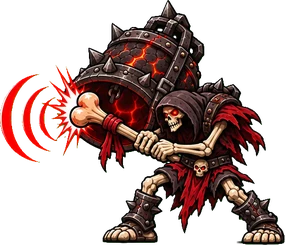
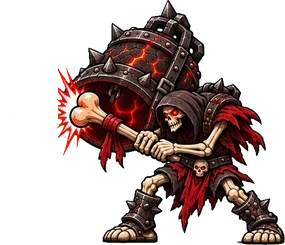
feat(siege): make the three newest foes rare champions with moving waves and grounded falls
Claude-Session: https://claude.ai/code/session_01D7UBrhj4BdB81o1BiFmQxC

diff --git a/bug-hunter/src/siege/cartoon/model.ts b/bug-hunter/src/siege/cartoon/model.ts
@@ -82,7 +82,12 @@ export interface Spec { id: number; cost: number; hp: number; damage: number; sp
   moves?: { ready: number; strike: number; kind: 'orb' | 'ray' | 'skulls' | 'summon' | 'slam' | 'spikes' | 'pulse' | 'slash' }[];
   /** A sound that strikes everything in front of it out to `reach`: the bell ringer's toll (walkers only, stunned for
       `stun` seconds), the crowned wraith's scream (walkers and flyers, slowed for `slow` seconds). */
-  wave?: { reach: number; stun?: number; slow?: number };
+  /** A toll or a scream (`art`, `siege/fx/<art>`), sent from its mouth (`mouth`: forward and up, in shares of its
+      size) out to `reach`: what it meets is struck, stunned or slowed. */
+  wave?: { reach: number; stun?: number; slow?: number; art: string; mouth: [number, number] };
+  /** One of the enemy's rare champions: big, tough and strong, never in the waves' rotation; one comes now and then
+      (`RARE`), with a roar, and only one at a time. */
+  rare?: boolean;
   /** The unit it becomes at half its life (the King of Darkness loses his wings and fights on foot), and how many poses
       its sheet has (more than six with `moves`). */
   phase2?: number; frames?: number;
@@ -292,13 +297,13 @@ export const UNITS: readonly Spec[] = [
     ...foe('boss-dark-king-ground', 250, 1) },
   // The King's Jailer (world 6): a hunched giant with no mouth and a cage of ribs on its back full of red souls. It throws
   // its chain from afar, hooks one of ours and drags it to its feet.
-  { id: 61, cost: 140, hp: 1100, damage: 45, speed: 22, range: 170, rate: 2.2, cooldown: 0, unlock: 1, foe: true, hook: 150, ...six('foe-jailer-1', 231, 1.4) },
+  { id: 61, cost: 230, hp: 2800, damage: 75, speed: 20, range: 190, rate: 2.2, cooldown: 0, unlock: 1, foe: true, rare: true, steady: true, hook: 170, ...six('foe-jailer-1', 231, 1.8) },
   // The Bell Ringer (world 4): a hunched skeleton with a huge black bell on its back; it strikes the bell with a bone and
   // the toll stuns our walkers in front of it.
-  { id: 62, cost: 90, hp: 900, damage: 18, speed: 22, range: 120, rate: 2.0, cooldown: 0, unlock: 1, foe: true, steady: true, wave: { reach: 130, stun: 0.8 }, ...foe('foe-bellringer-1', 258, 0.87) },
+  { id: 62, cost: 190, hp: 2300, damage: 40, speed: 20, range: 160, rate: 2.0, cooldown: 0, unlock: 1, foe: true, rare: true, steady: true, wave: { reach: 180, stun: 1.3, art: 'wave-toll', mouth: [0.515, 0.508] }, ...foe('foe-bellringer-1', 258, 1.25) },
   // The Crowned Wraith (world 5, air): a floating cloak with a crown and bone claws; its scream runs through everything
   // in front of it, walkers and flyers, and slows them.
-  { id: 63, flyAt: 62, cost: 80, hp: 260, damage: 22, speed: 40, range: 200, rate: 2.2, cooldown: 0, unlock: 1, foe: true, air: true, hitsAir: true, wave: { reach: 220, slow: 2.5 }, ...foe('foe-wraith-1', 261, 0.82) },
+  { id: 63, flyAt: 72, cost: 170, hp: 950, damage: 45, speed: 36, range: 230, rate: 2.2, cooldown: 0, unlock: 1, foe: true, rare: true, air: true, hitsAir: true, wave: { reach: 260, slow: 3.5, art: 'wave-scream', mouth: [0.205, 0.653] }, ...foe('foe-wraith-1', 261, 1.2) },
 ];
 /** The enemy's land and air troops by act, each act adding to the last (docs/siege-roster.md): early waves draw
     from the first two of the land list. No flyers in the first world: they come from the second. */
@@ -348,7 +353,8 @@ export const foePower = (id: number) => { const u = UNITS[id]; return u.hp * u.d
 /** The troops a stage's threat sends: from every act so far (the whole of this one, so a threat can show what is to come). */
 export function threatPool(stage: number): number[] {
   const t = threatOf(stage), act = actOf(stage);
-  const land = FOE_LAND.slice(0, act).flat(), air = FOE_AIR.slice(0, act).flat(), mine = FOE_LAND[act - 1];
+  const plain = (ids: number[]) => ids.filter(id => !UNITS[id].rare);
+  const land = plain(FOE_LAND.slice(0, act).flat()), air = plain(FOE_AIR.slice(0, act).flat()), mine = plain(FOE_LAND[act - 1]);
   const byHp = (ids: number[]) => [...new Set(ids)].sort((a, b) => UNITS[b].hp - UNITS[a].hp);
   // The swarm: the fastest close fighters, this act's first.
   if (t === 'swarm') { const fast = (ids: number[]) => ids.filter(id => UNITS[id].range <= 60 && UNITS[id].speed >= 40).sort((a, b) => UNITS[b].speed - UNITS[a].speed); return [...new Set([...fast(mine), ...fast(land)])].slice(0, 2); }
@@ -362,6 +368,10 @@ export function threatPool(stage: number): number[] {
 }
 /** The enemy's troops in a battle: every earlier act's, and its own act's coming in one more each stage. */
 export const foesAt = (lists: number[][], stage: number) => [...lists.slice(0, actOf(stage) - 1).flat(), ...(lists[actOf(stage) - 1] ?? []).slice(0, stageIn(stage))];
+/** The troops of a battle's usual waves (not the rare champions, which come on their own: `RARE`). */
+export const plainFoesAt = (lists: number[][], stage: number) => foesAt(lists, stage).filter(id => !UNITS[id].rare);
+/** The rare champions (`Spec.rare`): from this far into a battle, one every `every` waves, never two at once. */
+export const RARE = { from: 40, every: 5 };
 /** What recruiting each of our troops costs in gold (the swordsman is everyone's first). Bought once, kept. */
 export const RECRUIT: Record<number, number> = { 0: 0, 1: 100, 2: 120, 3: 350, 4: 300, 5: 600, 6: 900, 7: 700, 8: 900, 9: 1600, 10: 250, 11: 500, 12: 900, 13: 700, 14: 2000, 33: 1200, 51: 900, 52: 800, 53: 400, 54: 500, 55: 1100, 56: 3000, 57: 4000, 58: 4500, 59: 3500 };
 /** The guardian of each act, drawn bigger: Large Slinger, Large Gatling Robot, Large Red Dragon Rider, Giant Brute
@@ -582,7 +592,7 @@ function wince(u: Fighter, damage: number) {
   if (damage >= u.maxHp * WINCE.share && !u.winceCd) { u.wince = WINCE.time; u.winceCd = WINCE.every; }
 }
 export const CHARGE = { reach: 170, pace: 4, back: 130, daze: 0.9 };
-export interface Effect { x: number; from: number; lane: number; life: number; max: number; kind: 'shot' | 'anim' | 'piece' | 'burst' | 'arrow' | 'rocket' | 'bolt' | 'gust' | 'loot' | 'boom' | 'fire' | 'stuck' | 'fall' | 'ground' | 'zap' | 'wave' | 'sweep' | 'breath' | 'heal' | 'beam'; side: 0 | 1;
+export interface Effect { x: number; from: number; lane: number; life: number; max: number; kind: 'shot' | 'anim' | 'piece' | 'burst' | 'arrow' | 'rocket' | 'bolt' | 'gust' | 'loot' | 'boom' | 'fire' | 'stuck' | 'fall' | 'ground' | 'zap' | 'wave' | 'sweep' | 'breath' | 'heal' | 'beam' | 'ripple'; side: 0 | 1;
   /** A `breath`'s fire: core and edge colours. */
   colors?: [string, string];
   /** A lobbed shot's height at the top of its arc (field units), drawn falling under gravity. */
@@ -619,6 +629,8 @@ export interface Siege {
   kit: { id: number; level: number; card: number }[]; kitCd: Record<number, number>; hitq: Hit[];
   /** Powers that act for a while where they were cast: a black hole pulling the enemy in, a sanctuary healing ours. */
   zones?: { kind: 'pull' | 'heal' | 'wall' | 'slow' | 'drag'; x: number; r: number; until: number; heal?: number; next?: number; from?: number; speed?: number }[]; view: { x: number; width: number }; casts: number;
+  /** How many rare champions have come this battle, so they take turns (`RARE`). */
+  rares?: number;
   /** The troops' sounds since the view last took them (attacks and deaths, where they happened); kept short. */
   sounds?: { k: string; x: number }[];
   /** How many times the bow has shot this battle (the view plays a sound for each new one). */
@@ -749,7 +761,9 @@ function spawn(s: Siege, id: number, side: 0 | 1, boss = false, level?: number) 
   if (spec.stealth) nu.hidden = spec.stealth;
   // It arrives with a flourish of its kind: a summoning circle, a whirl of wind for flyers, a thump for the heavy, a
   // red portal for the enemy (the ninja slips in unseen).
-  else fx(s, spec.foe ? 'arrive-foe' : spec.air ? 'arrive-air' : spec.steady || spec.size > 100 ? 'arrive-heavy' : 'arrive-land', nu.x, 0.55, { size: Math.min(150, Math.max(70, spec.size * (boss ? 1.6 : 1) * 0.9)), up: spec.air ? highOf(nu) - 20 : 0 });
+  else fx(s, spec.foe ? 'arrive-foe' : spec.air ? 'arrive-air' : spec.steady || spec.size > 100 ? 'arrive-heavy' : 'arrive-land', nu.x, spec.rare ? 0.9 : 0.55, { size: spec.rare ? spec.size * 1.5 : Math.min(150, Math.max(70, spec.size * (boss ? 1.6 : 1) * 0.9)), up: spec.air ? highOf(nu) - 20 : 0 });
+  // A rare champion is heard coming.
+  if (spec.rare && side && !s.villain) hear(s, 'roar', nu.x);
 }
 /** What a troop's attack sounds like (its weapon) and its death (its body), by id; an array is per level. Projectile
     troops sound like what they fire (`SHOT_SOUND`). Names are the audio engine's `SiegeSound`s. */
@@ -976,7 +990,7 @@ function kingMove(s: Siege, u: Fighter, a: Spec, enemy: Fighter, alive: Fighter[
     hear(s, 'throw', u.x);
   } else if (mv.kind === 'summon') {
     // A portal opens on the ground before him and two of his troops climb out of it.
-    const x = Math.max(160, u.x + dir * 70), land = foesAt(FOE_LAND, s.world);
+    const x = Math.max(160, u.x + dir * 70), land = plainFoesAt(FOE_LAND, s.world);
     fx(s, 'king-portal', x, 1.2, { size: 120 });
     for (let i = 0; i < 2; i++) { const before = s.units.length; spawn(s, land[(s.nextId + i * 3) % land.length], u.side); const n = s.units[s.units.length - 1]; if (s.units.length > before && n) { n.x = x + i * 18; n.stun = 0.6; } }
     hear(s, 'roar', x);
@@ -1287,7 +1301,10 @@ export function tick(s: Siege, dt: number) {
     s.waves++;
     s.nextWave = Math.max(FOE_PACE.gap, 9 - hard(s.world) * FOE_PACE.slope - s.time / 90);
     const count = Math.min(3, 1 + Math.floor(s.time / 70));
-    const land = foesAt(s.villain ? HERO_LAND : FOE_LAND, s.world), flyers = foesAt(s.villain ? HERO_AIR : FOE_AIR, s.world);
+    const land = plainFoesAt(s.villain ? HERO_LAND : FOE_LAND, s.world), flyers = plainFoesAt(s.villain ? HERO_AIR : FOE_AIR, s.world);
+    // A rare champion now and then, alone (`RARE`): never in the villain's battles, where the heroes come.
+    const rares = s.villain ? [] : [...foesAt(FOE_LAND, s.world), ...foesAt(FOE_AIR, s.world)].filter(id => UNITS[id].rare);
+    if (rares.length && s.time >= RARE.from && s.waves % RARE.every === 0 && !s.units.some(u => u.side && u.hp > 0 && UNITS[u.id].rare)) { foeOut(s, rares[(s.rares ?? 0) % rares.length]); s.rares = (s.rares ?? 0) + 1; }
     // Early waves only the first two land troops; later the whole list, the newest (toughest) more often.
     const pick = s.time < 25 ? land.slice(0, 2) : [...land, ...land.slice(-2)];
     const plain = (i: number) => { const flyer = flyers.length > 0 && s.time >= airFrom(s.world) && (s.waves + i) % 3 === 2; return flyer ? flyers[(s.waves + i) % flyers.length] : pick[(s.waves * 3 + i) % pick.length]; };
@@ -1312,7 +1329,7 @@ export function tick(s: Siege, dt: number) {
     for (const u of s.units) if (!u.side) { u.blown = GUST.time; u.knock = 0; u.stun = 0; }
     s.effects.push({ x: FIELD - 120, from: FIELD - 120, lane: 1, life: 1.2, max: 1.2, kind: 'gust', side: 1 });
     hear(s, 'corrupt-wind', FIELD - 300);
-    const land = foesAt(s.villain ? HERO_LAND : FOE_LAND, s.world), tough = [...land].sort((a, b) => specAt(b, heroLevel(b, s.world)).hp - specAt(a, heroLevel(a, s.world)).hp);
+    const land = plainFoesAt(s.villain ? HERO_LAND : FOE_LAND, s.world), tough = [...land].sort((a, b) => specAt(b, heroLevel(b, s.world)).hp - specAt(a, heroLevel(a, s.world)).hp);
     const horde = hordeOf(s.world);
     for (let i = 0; i < horde.weak; i++) { foeOut(s, land[i % Math.min(2, land.length)]); const u = s.units[s.units.length - 1]; if (u?.side) u.x -= i * 18; }
     for (let i = 0; i < horde.strong; i++) foeOut(s, tough[i % tough.length]);
@@ -1426,7 +1443,9 @@ export function tick(s: Siege, dt: number) {
             if (!v.boss && !UNITS[v.id].steady && w.stun) v.stun = Math.max(v.stun ?? 0, w.stun);
             if (w.slow) v.slowed = Math.max(v.slowed ?? 0, s.time + w.slow);
           }
-          fx(s, 'hit-energy', u.x + dir * w.reach * 0.6, 0.35, { up: (a.air ? u.alt ?? highOf(u) : 0) + 30, centre: true, size: 70, flip: !!u.side });
+          // The rings leave its mouth and run out over its reach, growing and fading (`ripple` in the view).
+          const from = u.x + dir * w.mouth[0] * a.size;
+          s.effects.push({ x: u.x + dir * w.reach, from, lane: u.lane, life: 0.55, max: 0.55, kind: 'ripple', side: u.side, art: w.art, fromUp: (a.air ? u.alt ?? highOf(u) : 0) + w.mouth[1] * a.size, size: a.size });
           hear(s, w.stun ? 'blunt' : 'magic', u.x);
         }
         else if (a.sweep) {
@@ -1509,7 +1528,8 @@ export function tick(s: Siege, dt: number) {
         fx(s, 'wreck', u.x, 0.7, { size: size * 1.1, up });
         ['piece-gear', 'piece-bolt', 'piece-plate'].forEach((art, k) => s.effects.push({ x: u.x + (k - 1) * 34 + back * 0.4, from: u.x, lane: u.lane, life: 0.75, max: 0.75, kind: 'piece', side: 0, art, size: 12 + k * 2, arc: 50 + k * 14, spin: true, up: up + 30 }));
       } else if (sp.foe) fx(s, 'soul', u.x + back * 0.5, 0.9, { size: Math.min(70, size * 0.55), up: up + 10 });
-      if (sp.air) fx(s, 'crash', u.x + back, 0.6, { size: Math.min(150, size * 1.1) }, 0.28);
+      // The dust when it hits the ground, as it lands (the view lets it fall from where it flew over about 0.6 s).
+      if (sp.air) fx(s, 'crash', u.x + back, 0.6, { size: Math.min(150, size * 1.1) }, 0.5);
     }
     hear(s, soundsOf(u)[1], u.x);
     // A fallen enemy's bounty: gold (kept win or lose) and energy, shown rising where it fell.

diff --git a/bug-hunter/src/siege/cartoon/view.ts b/bug-hunter/src/siege/cartoon/view.ts
@@ -34,7 +34,7 @@ function picture(path: string) {
 }
 /** Pictures redrawn under the same file names: a browser keeps the old copy for days (`/images/` may be served stale
     while it revalidates), so their address carries a revision, raised each time one is drawn again. */
-const ART_REV: [string, number][] = [['siege/units/boss-dark-king-', 2]];
+const ART_REV: [string, number][] = [['siege/units/boss-dark-king-', 2], ['siege/units/foe-bellringer-1-3', 2], ['siege/units/foe-wraith-1-3', 2]];
 const art = (file: string) => { const r = ART_REV.find(([k]) => file.startsWith(k)); return `/images/game/${file}${r ? `?r=${r[1]}` : ''}`; };
 /** Every troop's sheet (`siege/units/...`): 0 standing, 1 attacking, 2 hurt. Walking, breathing, lunges and falls
     are animated here. */
@@ -172,7 +172,7 @@ const AMBIENT: Record<number, { kind: string; n: number; fall: number; drift: nu
 const FX_STILLS = [...[1, 2, 3, 4].flatMap(n => [`eye-${n}`, `eye-fire-${n}`]), 'ice-block', 'piece-gear', 'piece-bolt', 'piece-plate', 'casing', 'streak', 'storm-sky', 'rubble', 'piece-stone', 'piece-beam', 'piece-flag',
   ...[0, 1, 2].flatMap(n => [`scorch-${n}`, `crack-${n}`]), ...Object.values(AMBIENT).flatMap(a => Array.from({ length: a.n }, (_, k) => `amb-${a.kind}-${k}`))];
 const fxFrame = (name: string, p: number) => still(`siege/fx/${name}-${Math.max(0, Math.min(FX_FRAMES[name] - 1, Math.floor(p * FX_FRAMES[name])))}`);
-const FX = [...Array.from({ length: 8 }, (_, f) => `siege/fx/dragonpass-${f}`), ...Array.from({ length: 12 }, (_, f) => `siege/fx/anchor-${f}`), ...Object.keys(PHASED).flatMap(n => Array.from({ length: 12 }, (_, f) => `siege/fx/${n}-${f}`)), ...Object.entries(FX_FRAMES).flatMap(([n, k]) => Array.from({ length: k }, (_, f) => `siege/fx/${n}-${f}`)), ...FX_STILLS.map(n => `siege/fx/${n}`), 'siege/mana', 'siege/mana-dark', ...[0, 1, 2, 3, 4, 5, 6, 7].flatMap(n => [`siege/fx-boom-${n}`, `siege/fx-boom-dark-${n}`, `siege/fx-boom-cyan-${n}`]), 'siege/units/shot-crescent-gold', 'fx/fire-pool.webp', 'fx/fireball.webp', 'fx/rocket.webp', 'fx/volt-burst.webp', 'fx/impact.webp', 'fx/ice-block.webp', 'siege/units/shot-arrow', 'siege/units/shot-ice', 'siege/units/shot-lightning', ...[0, 1, 2].map(n => `fx/wave-strip-${n}.webp`), ...[0, 1, 2, 3, 4, 5, 6].map(n => `fx/icicle-0-${n}.webp`), 'arrows/water.webp', 'arrows/leaf.webp', 'fx/boom-big.webp', 'fx/impact.webp', ...[1, 2, 3, 4, 5, 6].map(n => `fx/bolt-y-${n}.webp`)];
+const FX = [...Array.from({ length: 8 }, (_, f) => `siege/fx/dragonpass-${f}`), ...Array.from({ length: 12 }, (_, f) => `siege/fx/anchor-${f}`), ...Object.keys(PHASED).flatMap(n => Array.from({ length: 12 }, (_, f) => `siege/fx/${n}-${f}`)), ...Object.entries(FX_FRAMES).flatMap(([n, k]) => Array.from({ length: k }, (_, f) => `siege/fx/${n}-${f}`)), ...FX_STILLS.map(n => `siege/fx/${n}`), 'siege/mana', 'siege/mana-dark', ...[0, 1, 2, 3, 4, 5, 6, 7].flatMap(n => [`siege/fx-boom-${n}`, `siege/fx-boom-dark-${n}`, `siege/fx-boom-cyan-${n}`]), 'siege/units/shot-crescent-gold', 'fx/fire-pool.webp', 'fx/fireball.webp', 'fx/rocket.webp', 'fx/volt-burst.webp', 'fx/impact.webp', 'fx/ice-block.webp', 'siege/units/shot-arrow', 'siege/units/shot-ice', 'siege/units/shot-lightning', ...[0, 1, 2].map(n => `fx/wave-strip-${n}.webp`), ...[0, 1, 2, 3, 4, 5, 6].map(n => `fx/icicle-0-${n}.webp`), 'arrows/water.webp', 'arrows/leaf.webp', 'fx/boom-big.webp', 'fx/impact.webp', ...[1, 2, 3, 4, 5, 6].map(n => `fx/bolt-y-${n}.webp`), 'siege/fx/wave-toll', 'siege/fx/wave-scream'];
 /** Pictures drawn whole (backdrop, floor, effects): no alpha crop needed. */
 const stills = new Map<string, HTMLImageElement>();
 function still(path: string) {
@@ -727,6 +727,20 @@ function effect(ctx: CanvasRenderingContext2D, e: Effect, p: number, y: number, 
     const art = fxFrame('heal', p); if (ok(art)) { const w = 46, h = w * art.naturalHeight / art.naturalWidth; ctx.drawImage(art, e.x - w / 2, ground - (e.up ?? 0) - h, w, h); }
     ctx.restore(); return true;
   }
+  if (e.kind === 'ripple') {
+    // The Bell Ringer's toll and the Crowned Wraith's scream: their rings (cut from the attack pose) leave the mouth
+    // and run out over the reach, growing and fading, a second pass adding light.
+    if (p < 0) return true;
+    const art = still(`siege/fx/${e.art}`); if (!ok(art)) return false;
+    const dir = e.x >= e.from ? 1 : -1, ease = 1 - (1 - p) * (1 - p), reach = Math.abs(e.x - e.from);
+    const h = (e.size ?? 100) * 0.42 * (1 + ease * 0.7), w = h * art.naturalWidth / art.naturalHeight;
+    // The rings' inner side starts at the mouth.
+    const cx = e.from + dir * (reach * ease + w / 2), cy = ground - (e.fromUp ?? 0);
+    ctx.save(); ctx.globalAlpha = Math.min(1, p / 0.12) * (p < 0.55 ? 1 : (1 - p) / 0.45); ctx.translate(cx, cy); ctx.scale(-dir, 1);
+    ctx.drawImage(art, -w / 2, -h / 2, w, h);
+    ctx.globalCompositeOperation = 'lighter'; ctx.globalAlpha *= 0.35; ctx.drawImage(art, -w / 2, -h / 2, w, h);
+    ctx.restore(); return true;
+  }
   if (e.kind === 'sweep') {
     // The archangel's golden crescent: a wide arc sweeping out from the angel over the ground ahead of it, growing, a
     // white-hot core and gold streaks behind, fading; it is drawn twice, the second time adding light.
@@ -983,12 +997,17 @@ function fallen(s: Siege) {
     eater's beam poses, whose beam reaches far ahead of and below it). */
 /** The King of Darkness's poses are anchored on his throne (in the air) or between his feet (on foot), measured on each. */
 const KING_ANCHOR: Record<string, [number, number]> = { 'siege/units/boss-dark-king-air-0': [0.407, 0.998], 'siege/units/boss-dark-king-air-1': [0.473, 0.998], 'siege/units/boss-dark-king-air-2': [0.443, 0.998], 'siege/units/boss-dark-king-air-3': [0.454, 0.998], 'siege/units/boss-dark-king-air-4': [0.392, 0.998], 'siege/units/boss-dark-king-air-5': [0.425, 0.875], 'siege/units/boss-dark-king-air-6': [0.421, 0.998], 'siege/units/boss-dark-king-air-7': [0.449, 0.998], 'siege/units/boss-dark-king-air-8': [0.42, 0.998], 'siege/units/boss-dark-king-air-9': [0.494, 0.998], 'siege/units/boss-dark-king-air-10': [0.457, 0.998], 'siege/units/boss-dark-king-air-11': [0.461, 0.998], 'siege/units/boss-dark-king-ground-0': [0.594, 0.998], 'siege/units/boss-dark-king-ground-1': [0.595, 0.998], 'siege/units/boss-dark-king-ground-2': [0.543, 0.998], 'siege/units/boss-dark-king-ground-3': [0.533, 0.998], 'siege/units/boss-dark-king-ground-4': [0.505, 0.998], 'siege/units/boss-dark-king-ground-5': [0.49, 0.995], 'siege/units/boss-dark-king-ground-6': [0.51, 0.997], 'siege/units/boss-dark-king-ground-7': [0.557, 0.995], 'siege/units/boss-dark-king-ground-8': [0.511, 0.998], 'siege/units/boss-dark-king-ground-9': [0.507, 0.998], 'siege/units/boss-dark-king-ground-10': [0.517, 0.998], 'siege/units/boss-dark-king-ground-11': [0.486, 0.998] };
-const POSE_ANCHOR: Record<string, [number, number]> = { ...KING_ANCHOR, 'siege/units/ally-star-eater-1-6': [0.183, 0.585], 'siege/units/ally-star-eater-1-7': [0.171, 0.796], 'siege/units/ally-dragon-1-6': [0.313, 0.712], 'siege/units/ally-dragon-1-7': [0.254, 0.848], 'siege/units/ally-reaper-1-3': [0.297, 1] };
+const POSE_ANCHOR: Record<string, [number, number]> = { ...KING_ANCHOR, 'siege/units/ally-star-eater-1-6': [0.183, 0.585], 'siege/units/ally-star-eater-1-7': [0.171, 0.796], 'siege/units/ally-dragon-1-6': [0.313, 0.712], 'siege/units/ally-dragon-1-7': [0.254, 0.848], 'siege/units/ally-reaper-1-3': [0.297, 1],
+  // The Bell Ringer lying dead: the bone thrown in front of it reaches lowest; it lies on its body, the bone a little in front.
+  'siege/units/foe-bellringer-1-5': [0.385, 0.92] };
 function fighter(ctx: CanvasRenderingContext2D, s: Siege, u: Fighter, ground: number, reduced: boolean, color: string, gone?: number) {
   // Air troops fly above their lane, their shadow on the ground under them; the fallen lie on the ground.
   // Every troop on one line (the lanes only order who is drawn in front), so the card bar never hides one.
   const spec = specOf(u), floor = ground;
-  const y = gone !== undefined ? floor : spec.air ? floor - (u.alt ?? highOf(u)) - u.lane * 8 + (reduced ? 0 : spec.raid ? Math.sin(s.time * 0.9 + u.uid) * 2 : Math.sin(s.time * 4 + u.uid) * 5) : floor;
+  // A flyer killed in the air falls from where it was to the ground over the first part of its fall (it no longer
+  // drops there at once).
+  const fell = gone !== undefined && spec.air ? Math.min(1, gone / DEATH.fly) : 1;
+  const y = gone !== undefined ? floor - (u.alt ?? highOf(u)) * (1 - fell * fell) : spec.air ? floor - (u.alt ?? highOf(u)) - u.lane * 8 + (reduced ? 0 : spec.raid ? Math.sin(s.time * 0.9 + u.uid) * 2 : Math.sin(s.time * 4 + u.uid) * 5) : floor;
   const path = spec.sprite, t = s.time + u.uid * 0.37;
   // The pose. Six-pose sheets: walk A/B in turn while walking, the wind-up just before a blow, the blow, hurt, dead.
   // Three-pose sheets: stand (walking in code), attack, hurt.

diff --git a/bug-hunter/src/version.ts b/bug-hunter/src/version.ts
@@ -4,7 +4,7 @@
  * This folder migration preserves the public game URL, saves and gameplay.
  * The build stamp changes automatically on each deployment.
  */
-export const GAME_VERSION = '1.16.10';
+export const GAME_VERSION = '1.16.11';
 
 declare const __GAME_BUILD__: { commit: string; built: string };
 /** Build stamp from the shared Vite configuration; safe outside Vite too. */

diff --git a/bug-hunter/docs/siege-roster.md b/bug-hunter/docs/siege-roster.md
@@ -50,6 +50,8 @@ Each enemy is "equivalent" to one of our units at a level: that sets its stats. 
 | 5 | Crowned Wraith (the owner's own, air: its scream slows everything ahead), Rex Head, Rhinoceratops, Flightless Terror Bird, Tiger (leaps over and turns back), Spider Spearman | Spearman 4, about HAS 2, Spearman 4, Archer 4, Spearman 5 | Giant Dinosaur Brute |
 | 6 | The King's Jailer (the owner's own: a hunched giant with a cage of souls, hooks one of ours with its chain and drags it to its feet), Mammothsaurus, Giant Heavy Armor Axeman, Inter-Galactic Shooter, Green Ninja Bat, Red Dragon Rider (air, unstunnable), Devil Army (air) | Vulture 6, HAS 4, Gunner 2, Swordsman 6, Drill Aircraft 2, Angel | Giant King Dinosaur Brute (replaced in Siege Cartoon by the King of Darkness, the owner's own two-form final boss) |
 
+**The owner's three rare champions (v1.16.11):** the Bell Ringer (world 4), the Crowned Wraith (world 5, air) and the King's Jailer (world 6) are `rare` in the model. They are big, tough and strong; the Jailer and the Bell Ringer cannot be thrown back. They never come in the usual waves or a stage's threat. From 40 s into a battle, one comes every fifth wave, never two at once, taking turns, with a roar and a larger arrival (`RARE`). The Ringer's toll and the Wraith's scream are rings cut from their attack poses (`siege/fx/wave-toll`, `siege/fx/wave-scream`), sent out from the mouth across their reach.
+
 **Our later recruits (v1.15.146, new designs, not in the reference):** medic (world 2, heals), shield bearer (3, a wall that shoves), catapult (4, two forms, double on the fortress), bomber balloon (4, air, bombs only the fortress), ninja (5, unseen at first), dragon rider (6, air, fire over an area).
 
 **In the game (v1.15.144).** Land, by world: 1 swordsman, spearman, dog; 2 gunner, reaper, horned archer; 3 blaster, bear, undead turkey; 4 wizard, tiger, hammer; 5 dragon, axeman, Rex Head, terror bird, rhinoceratops; 6 gatling robot, alien shooter, mammothsaurus, spider spearman. Air: 2 eagle; 3 ninja bat, death angel; 4 hypnotist bat; 5 pterodactyl; 6 red dragon rider, green ninja bat, devil army. A world's own list comes in one more each stage (`FOE_LAND`, `FOE_AIR`).

diff --git a/bug-hunter/CHANGELOG.md b/bug-hunter/CHANGELOG.md
@@ -4,6 +4,24 @@
 
 This changelog tracks game-version changes starting with v1.12.55. Earlier releases are not reconstructed here.
 
+## 1.16.11 - 2026-11-07
+
+- The Bell Ringer, the Crowned Wraith and the King's Jailer are now rare champions:
+  - They are drawn bigger and have more than double their life and strength:
+    - the Jailer: 2800 life, 75 damage, a longer chain;
+    - the Bell Ringer: 2300 life, a longer toll that stuns for longer;
+    - the Wraith: 950 life, a scream that reaches further and slows for longer.
+  - The Jailer and the Bell Ringer cannot be thrown back.
+  - They no longer come in the usual waves. From 40 seconds in, one arrives every fifth wave, never two at once, taking turns, with a roar and a larger arrival: about four in a five-minute battle.
+  - In the Villain campaign their cards cost more to match.
+- The toll and the scream move:
+  - Their red rings are cut out of the attack poses and leave the bell's mouth or the Wraith's mouth.
+  - They run out across the reach of the blow, growing and fading.
+- Falls:
+  - A flyer killed in the air now falls from where it flew to the ground, instead of appearing on the ground at once.
+  - Its crash dust comes when it lands.
+  - The Bell Ringer lies on its body when dead: it no longer floats on the bone drawn in front of it.
+
 ## 1.16.10 - 2026-11-07
 
 - The King of Darkness always shows his new art. His redraw kept 22 of the 24 file names, so browsers that had the old pictures could go on showing them for days, mixed with the new ones. His pictures' addresses now carry a revision (`ART_REV` in the Siege Cartoon view), and every player fetches the new art at once.
